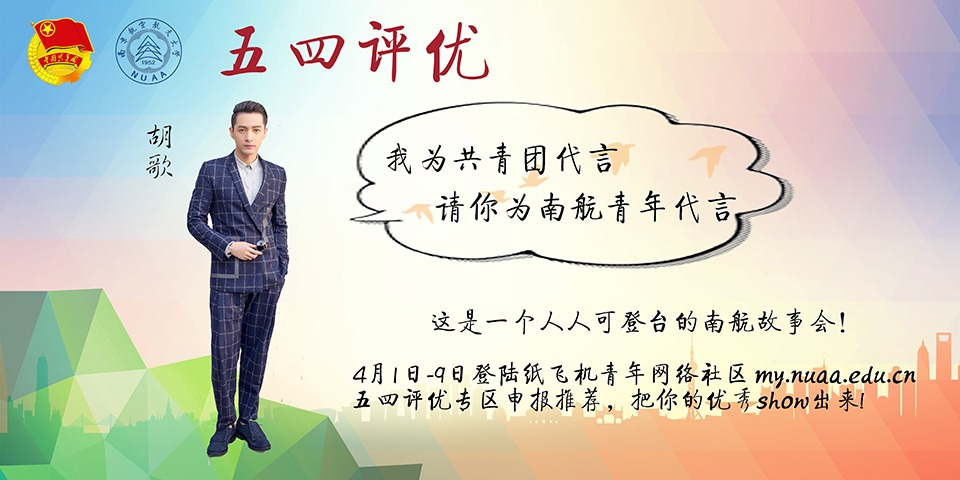
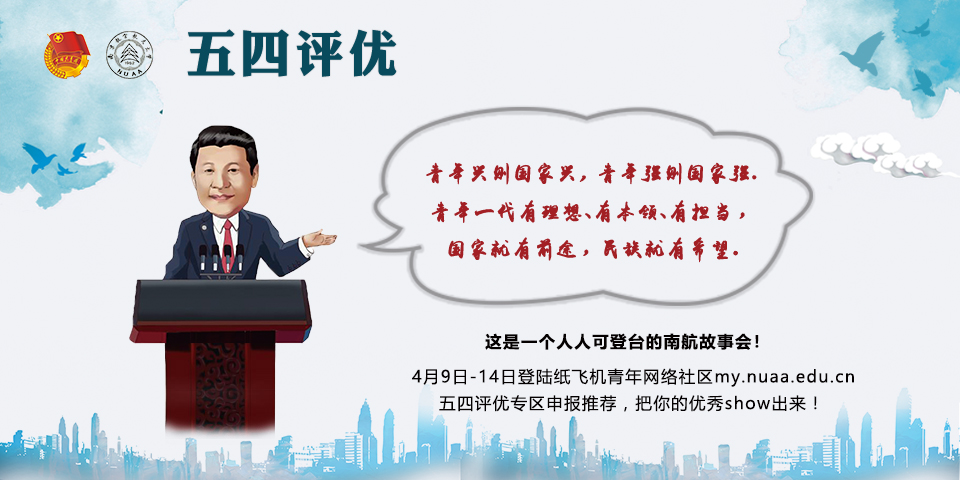
修改首页图和部分信息

diff --git a/resources/lang/zh/app.php b/resources/lang/zh/app.php
@@ -29,7 +29,7 @@ return [
 	'mail' => '如有疑问请发邮件或回复校团委微信消息，会有老师为你解答。',
 	'notice' => [
 		'1. 五四评优活动必读：<b><a href="/evaluation/notes.docx">活动须知（请点击下载）</a></b>。',
-		'2. 时间节点：个人申报、师生推荐（4.1-4.8），学院审核（4.9-4.12），网络投票（4.13-4.15）。',
+		'2. 时间节点：个人申报、师生推荐（4.9-4.14），学院审核（4.9-4.16），网络投票（4.14-4.16）。',
 		'3. 咨询及投诉邮箱：<a href="mailto:nuaatw@163.com">nuaatw@163.com</a>。',
 		'4. 若在操作过程中出现错误，请将错误信息截图，发到<a href="mailto:nuaatw@163.com">nuaatw@163.com</a>，方便技术人员定位错误，及时解决并回复。'
 	],
